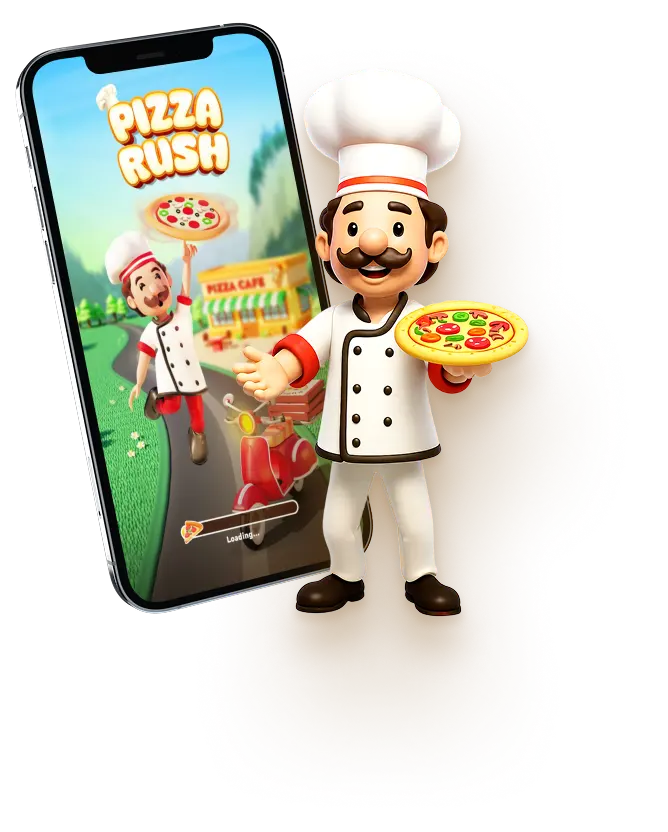
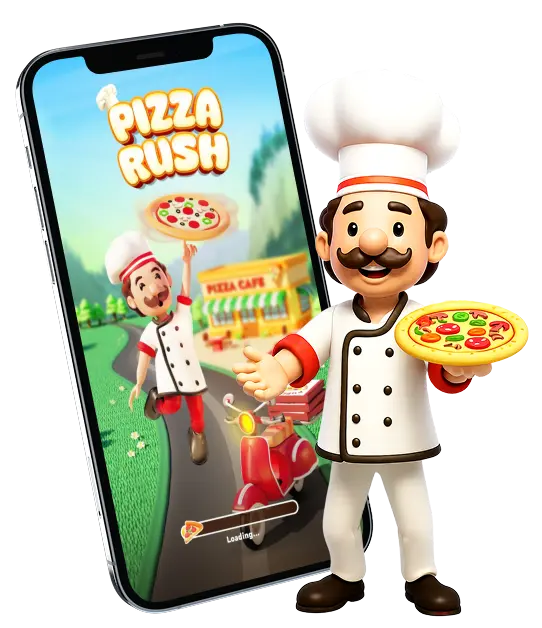
Refactor CSS styles for improved layout and responsiveness; update HTML structure for better semantics

diff --git a/src/partials/hero.html b/src/partials/hero.html
@@ -1,37 +1,50 @@
 <section class="hero-section" data-bg="orange">
   <div class="container hero-container">
-    <img src="/img/pizza-slice2x.webp" class="hero-slice" alt="Pizz Slice"/>
+    <img src="/img/pizza-slice2x.webp" class="hero-slice" alt="Pizz Slice" />
     <div class="hero-text">
       <div class="hero-title-wrapper">
         <h1 class="hero-title">Pizza Rush</h1>
       </div>
       <p class="hero-subtitle">The Ultimate Pizza Delivery Challenge</p>
       <p class="hero-description">
-        Step into the heat of the kitchen and prove you can handle the rush! <br> In
-        Pizza Rush, you'll take on the role of a high-speed pizza chef,battling
-        time and hunger to deliver fresh, hot pies to impatient customers. <br> Are
-        you fast enough to keep up?
+        Step into the heat of the kitchen and prove you can handle the rush!
+        <br />
+        In Pizza Rush, you'll take on the role of a high-speed pizza chef,
+        battling time and hunger to deliver fresh, hot pies to impatient
+        customers. <br />
+        Are you fast enough to keep up?
       </p>
       <div class="hero-buttons">
-        <a href="https://www.youtube.com/watch?v=agA3zH3jpyY" target="_blank" rel="noopener noreferrer" class="hero-watch-btn">Watch Trailer</a>
-        <a href="https://play.google.com/store/apps/details?id=com.yamystudio.pizzarush&hl=en&gl=us " target="_blank" rel="noopener noreferrer" class="hero-play-btn">Play Now</a>
+        <a
+          href="https://www.youtube.com/watch?v=agA3zH3jpyY"
+          target="_blank"
+          rel="noopener noreferrer"
+          class="hero-watch-btn"
+          >Watch Trailer</a
+        >
+        <a
+          href="https://play.google.com/store/apps/details?id=com.yamystudio.pizzarush&hl=en&gl=us "
+          target="_blank"
+          rel="noopener noreferrer"
+          class="hero-play-btn"
+          >Play Now</a
+        >
       </div>
     </div>
-    <div class="hero-image">
-      <picture>
-        <source
-          srcset="/img/hero1x.webp 1x, /img/hero2x.webp 2x"
-          type="image/webp"
-        />
-        <img
-          src="/img/hero1x.webp"
-          srcset="/img/hero1x.webp 1x, /img/hero2x.webp 2x"
-          alt="Pizza Rush Game Image"
-          loading="lazy"
-          decoding="async"
-          width="800"
-          height="600"
-        />
-      </picture>
+    <picture class="hero-image">
+      <source
+        srcset="/img/hero1x.webp 1x, /img/hero2x.webp 2x"
+        type="image/webp"
+      />
+      <img
+        src="/img/hero1x.webp"
+        srcset="/img/hero1x.webp 1x, /img/hero2x.webp 2x"
+        alt="Pizza Rush Game Image"
+        loading="lazy"
+        decoding="async"
+        width="800"
+        height="600"
+      />
+    </picture>
   </div>
 </section>

diff --git a/src/css/hero.css b/src/css/hero.css
@@ -4,8 +4,8 @@
 .hero-container {
   display: flex;
   flex-direction: column;
-  padding-top: 42px;
   position: relative;
+  padding: 42px 0 0;
 }
 .hero-slice {
   display: none;
@@ -15,6 +15,7 @@
   flex-direction: column;
   align-items: center;
   gap: 20px;
+  margin: 0 16px;
 }
 .hero-title-wrapper {
   display: inline-block;
@@ -57,22 +58,18 @@
   display: none;
 }
 .hero-image {
-  position: relative;
-  height: 380px;
-}
-.hero-image img {
-  position: absolute;
-  left: -16px;
-  overflow: visible;
-  max-width: 138%;
+  filter: drop-shadow(0 7px 10px rgba(117, 65, 2, 0.14))
+    drop-shadow(0 87px 125px rgba(117, 65, 2, 0.35));
 }
 
 @media only screen and (min-width: 1200px) {
   .hero-container {
     flex-direction: row;
     justify-content: space-between;
-    padding-top: 101px;
-    padding-bottom: 97px;
+    align-items: center;
+    padding: 0;
+    position: relative;
+    height: 627px;
   }
   .hero-slice {
     position: absolute;
@@ -85,8 +82,9 @@
     animation: floatUp 1s ease-in-out infinite alternate;
   }
   .hero-text {
-    width: 617px;
+    max-width: 617px;
     gap: 0;
+    margin: 0 64px;
   }
   .hero-title {
     margin-bottom: 20px;
@@ -131,11 +129,11 @@
     color: var(--red);
   }
   .hero-image {
-    width: 455px;
+    position: absolute;
+    right: 0;
+    top: 0;
   }
-  .hero-image img {
-    top: -101px;
-    left: 0;
-    width: 138%;
+  .hero-image {
+    width: 542px;
   }
 }

diff --git a/src/css/footer.css b/src/css/footer.css
@@ -84,18 +84,27 @@
   border-radius: 12px;
   width: 162px;
   height: 48px;
-  background: var(--orange);
-  font-family: var(--font-family);
   font-weight: 500;
   font-size: 16px;
   text-align: center;
-  color: var(--white);
   border: 1px solid var(--orange);
+}
+.cookies-decline {
+  color: var(--orange);
+  background-color: transparent;
   transition: all 0.3s ease-in-out;
 }
 .cookies-decline:hover,
+.cookies-decline:focus {
+  border: 1px solid var(--white);
+  color: var(--white);
+}
+.cookies-accept {
+  background: var(--orange);
+  color: var(--white);
+  transition: all 0.3s ease-in-out;
+}
 .cookies-accept:hover,
-.cookies-decline:focus,
 .cookies-accept:focus {
   background-color: transparent;
   color: var(--orange);

diff --git a/src/partials/features.html b/src/partials/features.html
@@ -29,7 +29,7 @@
           <svg class="features-pizza-icon" width="37" height="25">
             <use href="/sprite.svg#money"></use>
           </svg>
-          <h3 class="features-pizza-title">Upgrade <br />System:</h3>
+          <h3 class="features-pizza-title">Upgrade System:</h3>
           <p class="features-pizza-text">
             Use your hard-earned tips to improve speed, machines, and customer
             flow.

diff --git a/src/css/reviews.css b/src/css/reviews.css
@@ -10,8 +10,8 @@
   padding: 0 16px;
 }
 .reviews-swiper {
-  height: 480px;
-  padding: 12px 16px !important;
+  height: 472px;
+  padding: 0 16px !important;
   margin-bottom: 16px;
 }
 .reviews-swiper-slide {
@@ -64,7 +64,6 @@
     margin-bottom: 0;
   }
   .reviews-swiper-slide {
-    width: calc((100% - 40px) / 3) !important;
     padding: 22px 18px;
   }
   .reviews-swiper-buttons {

diff --git a/src/css/how-to-play.css b/src/css/how-to-play.css
@@ -21,7 +21,6 @@
 }
 .how-to-play-slide {
   border-radius: 12px 12px 0 0;
-  padding-top: 42px;
   max-height: 565px;
   overflow: hidden;
   background: var(--white);
@@ -31,7 +30,8 @@
     0 10px 10px 0 rgba(154, 17, 32, 0.46);
 }
 .how-to-play-slide-text {
-  padding: 0 6px 38px;
+  padding: 0 6px;
+  height: 168px;
   display: flex;
   flex-direction: row;
   align-items: center;

diff --git a/src/css/features.css b/src/css/features.css
@@ -39,6 +39,7 @@
   align-items: center;
   justify-content: center;
   height: 100%;
+  margin-left: 6px;
 }
 .features-pizza-icon {
   fill: var(--white);
@@ -65,7 +66,7 @@
   width: 160px;
 }
 .features-pizza-slice:nth-child(3) .features-pizza-icon {
-  margin-left: 15px;
+  margin-top: 24px;
 }
 
 @media only screen and (min-width: 1200px) {

diff --git a/src/js/reviews.js b/src/js/reviews.js
@@ -29,7 +29,7 @@ document.addEventListener('DOMContentLoaded', function () {
     breakpoints: {
       1200: {
         slidesPerView: 3,
-        slidesPerGroup: 3,
+        slidesPerGroup: 1,
         grid: {
           rows: 1,
           fill: 'row',
